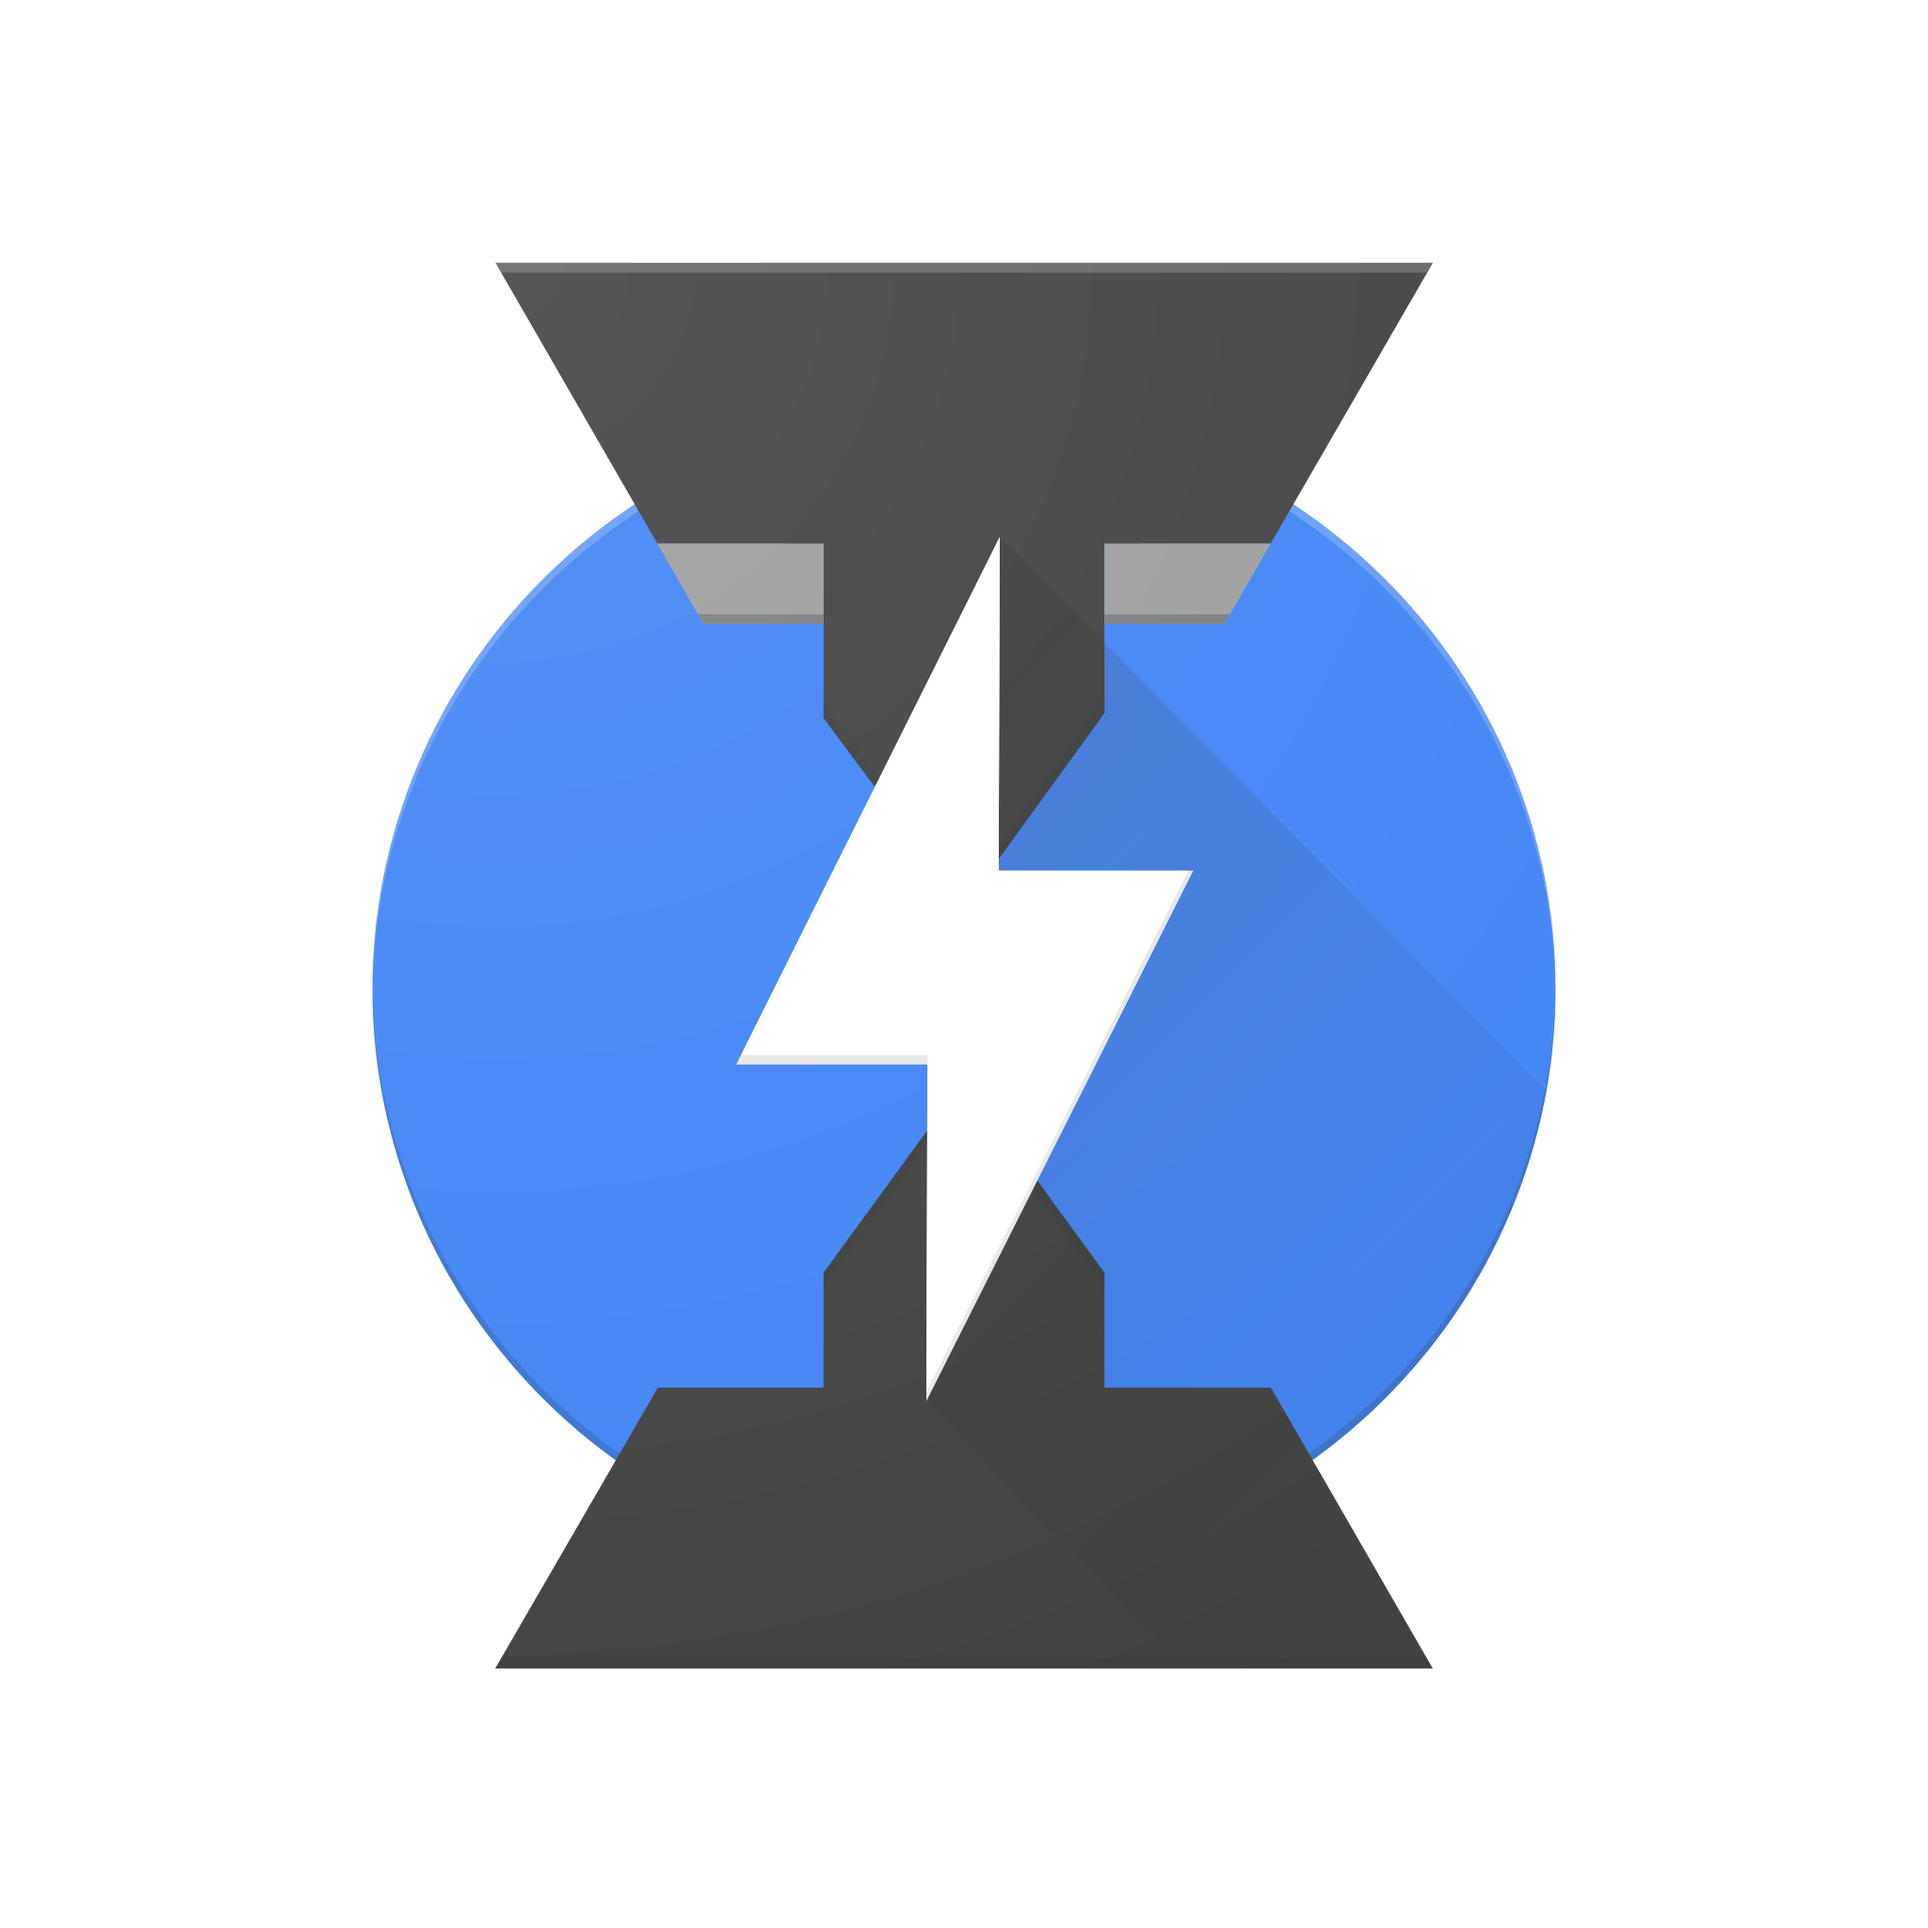
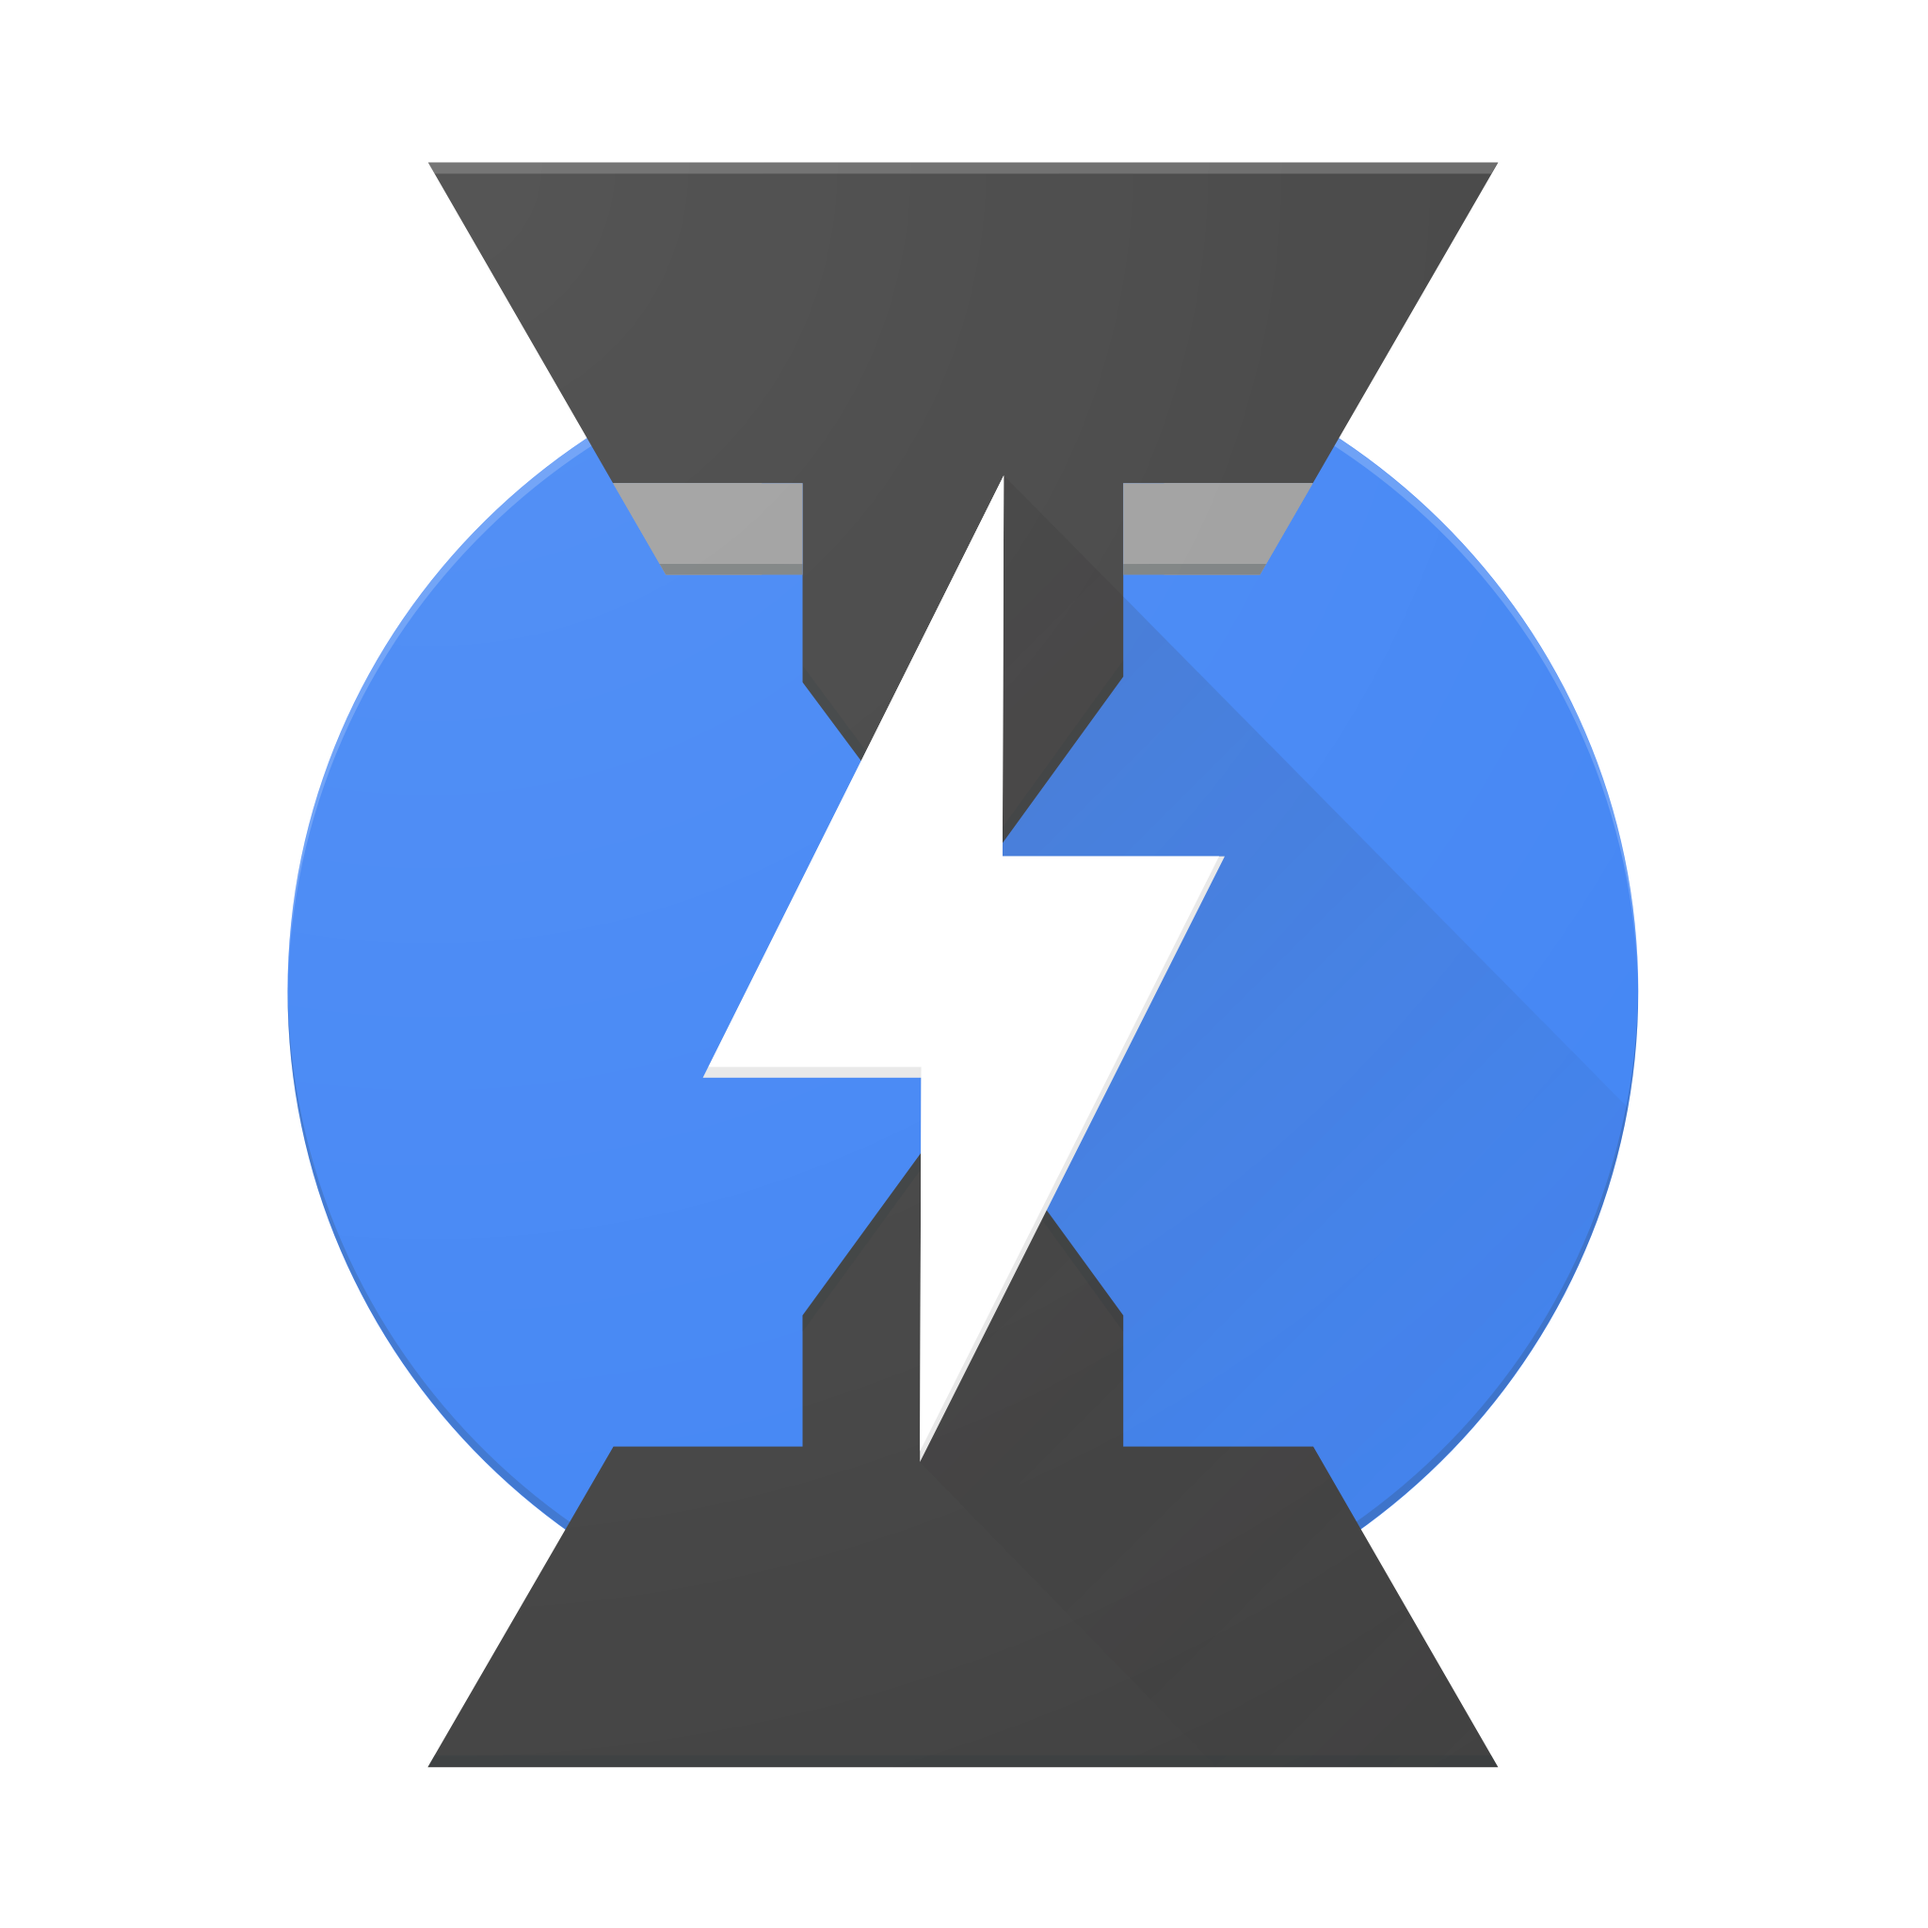
Tweak and further optimize `v8-ignition.svg`
Also, regenerate the PNG images based on the SVG.

diff --git a/CHANGELOG.md b/CHANGELOG.md
@@ -11,6 +11,7 @@
 
 #### Bug fixes / Improvements
 
+* Tweak and further optimize `v8-ignition.svg`.
 * Tweak and further optimize `v8.svg`.
 
 
